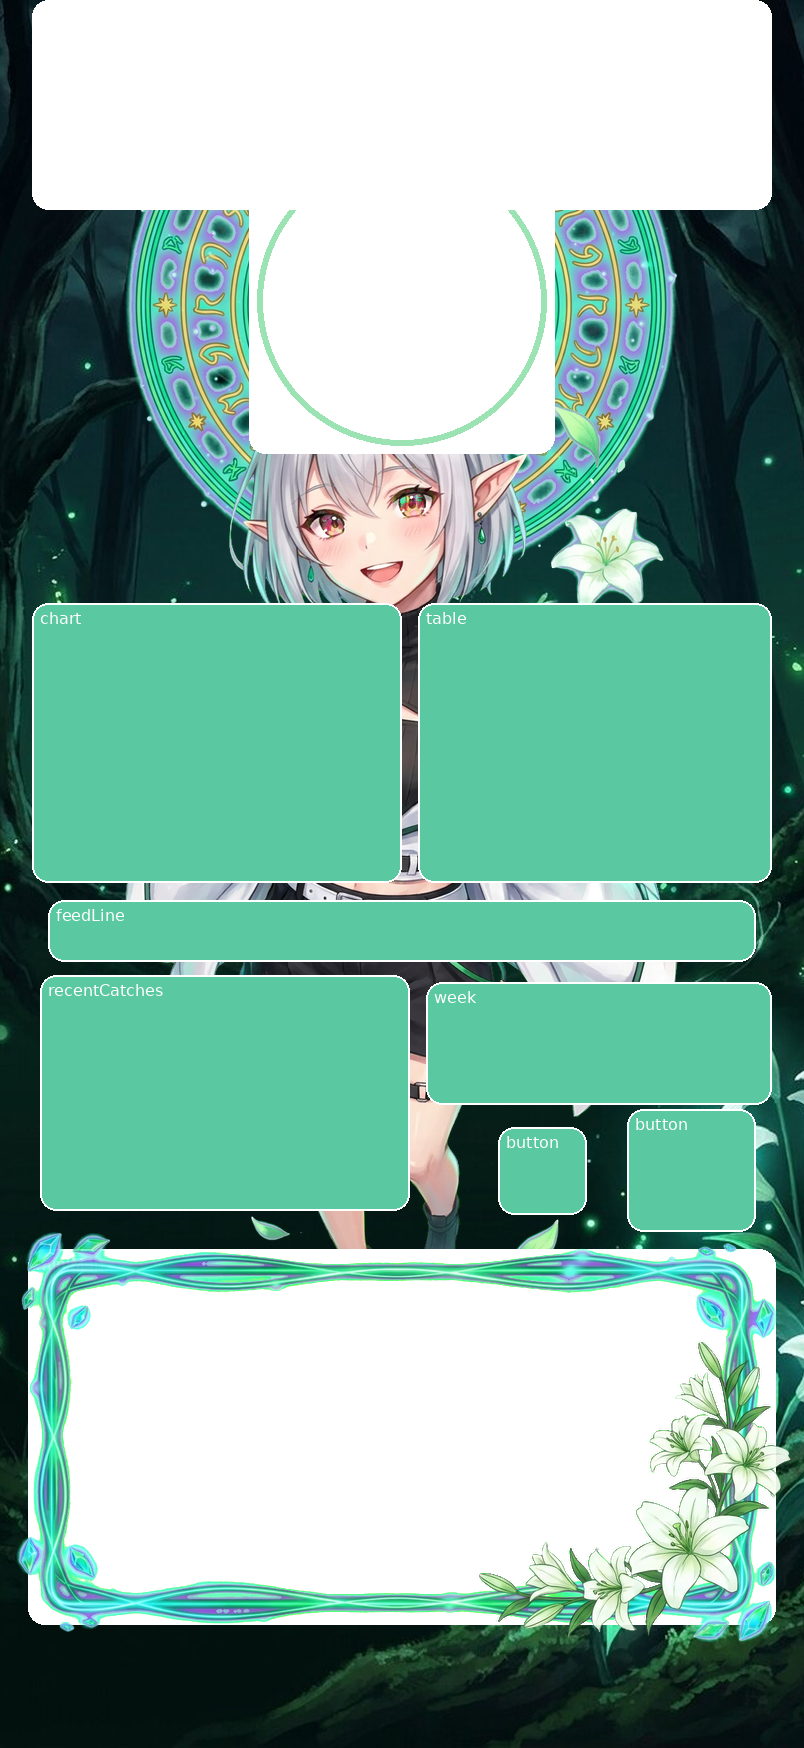
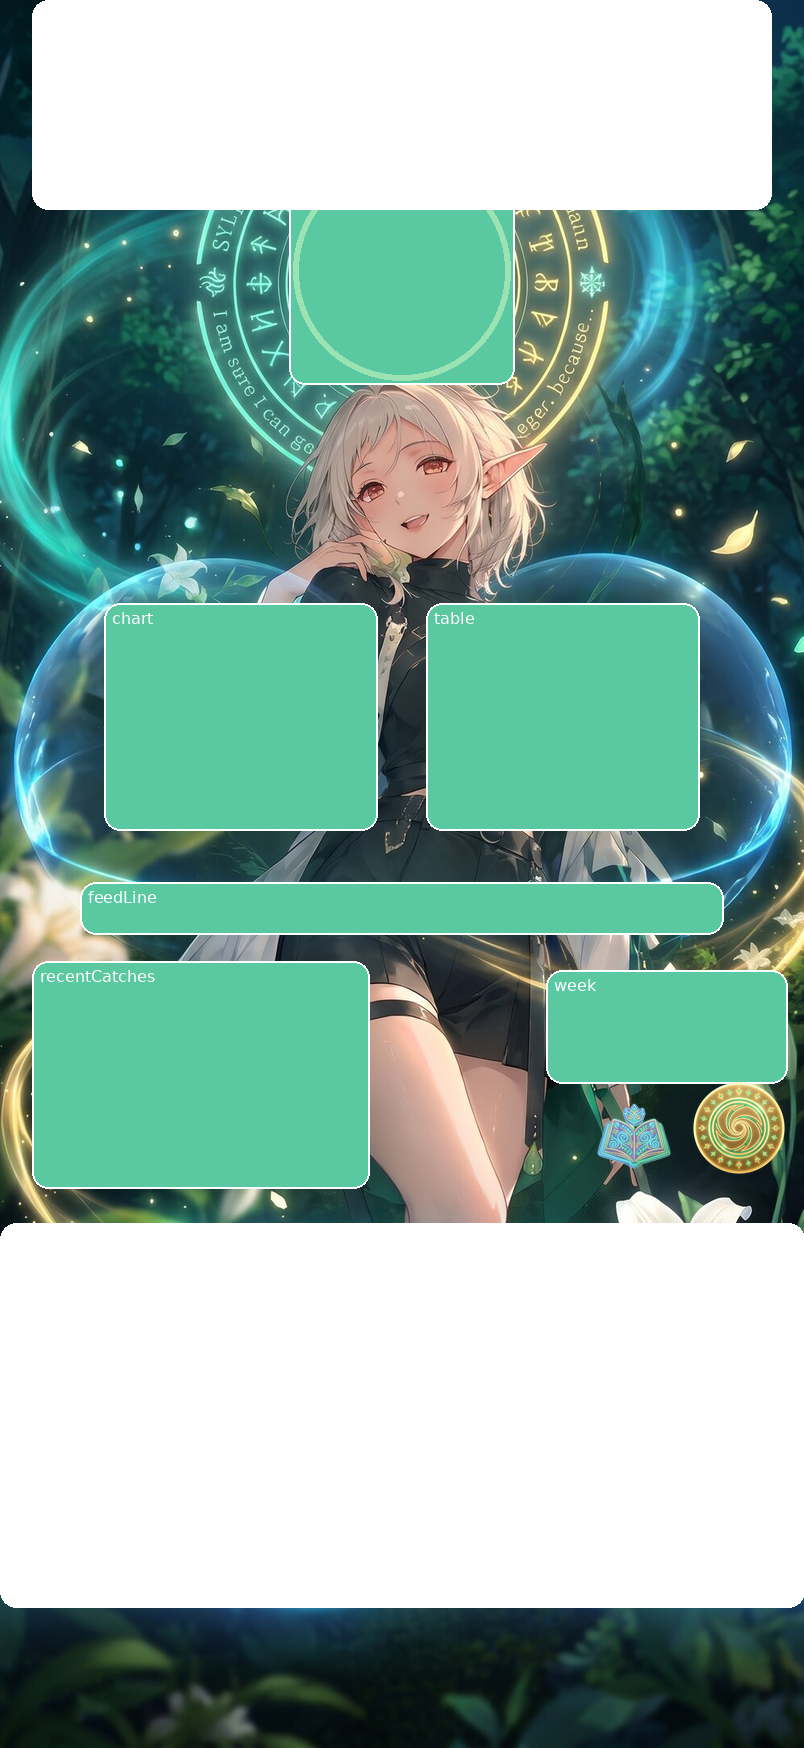
L38: モック画像を参考に Gemini ネイティブ API で再現した背景（シルフィ込み）に差し替え、泡・魔法陣に部品の座標を合わせる
Claude-Session: https://claude.ai/code/session_01UYc4jCZAzEFFPiByHr3rU2

diff --git a/App/Resources/Themes/sylphie/README.md b/App/Resources/Themes/sylphie/README.md
@@ -1,17 +1,21 @@
 # sylphie — 森の魔法陣（F-58）
 
-タブバーも下の 5 つのボタンも無い、1 枚で完結するホーム。画像は Gemini（`gemini-3-pro-image-preview`、OpenAI 互換の images エンドポイント）で生成し、
-マゼンタ背景を `scripts/theme_chroma_key.py` で透過 PNG にしてある（2026-11-09）。
+開発者のモック画像を **そのまま再現した 1 枚絵** を背景にし、泡・魔法陣・地図台の位置に実データの部品を重ねるテーマ。タブバーも下の 5 つの印も無い。
+
+画像は Gemini `gemini-3-pro-image-preview`（ネイティブ API、参考画像つき、2K）で生成（2026-11-09）。
+背景はモック画像を参照させ「UI の文字・数字・アイコン・下の 5 つの印だけを消す」編集で作った。シルフィの顔・服・立体の地図台・透明な泡はモックのまま。
 
 | ファイル | 内容 | 置き方 |
 | --- | --- | --- |
-| `bg_home.jpg` | 夜の森・満月・光の粒・百合（縦 9:16、768×1376） | 全画面に `fill`、`motion: drift`（ゆっくり寄って戻る） |
-| `ring_home.png` | 釣れ率の後ろの魔法陣（透過・中央は空） | 上部中央（幅 72%）に `fit`、`motion: spin`（1 周 100 秒） |
-| `char_home.png` | シルフィ（短い白髪・赤い瞳・黒のリブタートル・白いジャケット、透過） | 中央（幅 76%・高さ 58%）に `fit`、`motion: float`（上下にふわり） |
-| `map_frame.png` | 下の地図に重ねる光の枠と百合（透過） | 下部に `fit` |
-| `tab_camera.png` / `tab_guide.png` | 撮影・図鑑のボタンの印（透過） | `button` 部品の画像 |
+| `bg_home.jpg` | モックの再現（シルフィ込み、1206×2160） | 全画面に `fill`、`motion: drift`（ごくゆっくり寄って戻る） |
+| `tab_camera.png` / `tab_guide.png` | 撮影・図鑑のボタンの印（透過） | `button` 部品の画像（右中段） |
 | `bg_log.jpg` `bg_guide.jpg` `bg_sheet.jpg` | 他の画面の背景 | 従来どおり |
 
-効果の層（画像なし）：`fireflies`（光の粒 34）、`sparkles`（きらめき 14、金）、`leaves`（舞う葉 9）。書き方は `docs/07_theme_spec.md` の「動き・効果」。
+効果の層（画像なし）：`fireflies`（光の粒 30）、`sparkles`（きらめき 14、金）、`leaves`（舞う葉 8）。
 
-画面の行き来：ログは直近の釣果の写真、釣り場は下の地図、図鑑と撮影は右中段のボタン、設定・相談・月は上の見出し。
+部品の座標は背景の泡・魔法陣に合わせてある（`docs/ui/sylphie_layout_preview.png`）。
+- 釣れ率 → 魔法陣の内側、グラフ → 左の泡、3 時間ごとの表 → 右の泡、釣果情報の 1 行 → 泡の下、直近の釣果 → 左中段、週 → 右中段
+- 下の地図台は絵（タップで釣り場画面）。実際の地図の部品を重ねたいときは `miniMap` を `rect: [0.03, 0.71, 0.93, 0.19]` で足す
+
+シルフィだけを浮かせたい（`motion: float`）ときは、背景をシルフィ無しの版に差し替えて切り抜きの `char_home.png` を層に足す（生成済みの素材は開発者へ渡す）。
+マゼンタ背景の素材は `scripts/theme_chroma_key.py` で透過にする。

diff --git a/docs/03_loop_plan.md b/docs/03_loop_plan.md
@@ -435,8 +435,9 @@ F-12（手入力サイズ）、F-15（針ロスト・根掛かりマップの完
 ### L38 シルフィのテーマ本体（2026-11-09）
 
 受け入れ条件
-- [x] 画像は Gemini `gemini-3-pro-image-preview`（Nano Banana Pro）で生成：背景（9:16）・魔法陣・シルフィ（短い白髪・赤い瞳・黒のリブタートル・白いジャケット）・地図の光の枠・撮影と図鑑のボタンの印・ログ/図鑑/シートの背景。マゼンタ背景は `scripts/theme_chroma_key.py` で透過 PNG に
-- [x] `theme.json` の層に `motion`（float / breathe / sway / spin / drift / pulse）と `effect`（fireflies / leaves / sparkles / bubbles）を追加（Core にテスト）。シルフィは上下にふわり、魔法陣はゆっくり回り、背景は寄って戻る。光の粒・きらめき・舞う葉が常に動く
+- [x] 画像は Gemini `gemini-3-pro-image-preview`（Nano Banana Pro）のネイティブ API に **開発者のモック画像とシルフィの参考画像を渡して** 生成（2K）。ホームの背景はモックから UI だけを消した 1 枚絵（顔・立体の地図台・透明な泡はモックのまま）。撮影と図鑑の印、ログ/図鑑/シートの背景も生成。マゼンタ背景の素材は `scripts/theme_chroma_key.py` で透過 PNG に
+- [x] 部品の座標を背景の泡・魔法陣に合わせる（`docs/ui/sylphie_layout_preview.png`）
+- [x] `theme.json` の層に `motion`（float / breathe / sway / spin / drift / pulse）と `effect`（fireflies / leaves / sparkles / bubbles）を追加（Core にテスト）。光の粒・きらめき・舞う葉が常に動き、背景はごくゆっくり寄って戻る（シルフィは 1 枚絵の一部なので、このビルドでは浮かない）
 - [x] 動きは Core Animation だけ、効果は 30 fps の Canvas。前面でないとき・「視差効果を減らす」では止まる（固まり・電池への配慮）
 - [x] 下の 5 つのボタン（`nav`）を無くし、その分だけ地図を下まで広げる。撮影と図鑑は右中段の小さな印、ログは直近の釣果、釣り場は地図、設定・相談・月は見出しから
 - [ ] ios-build 緑 → TestFlight へ配信
